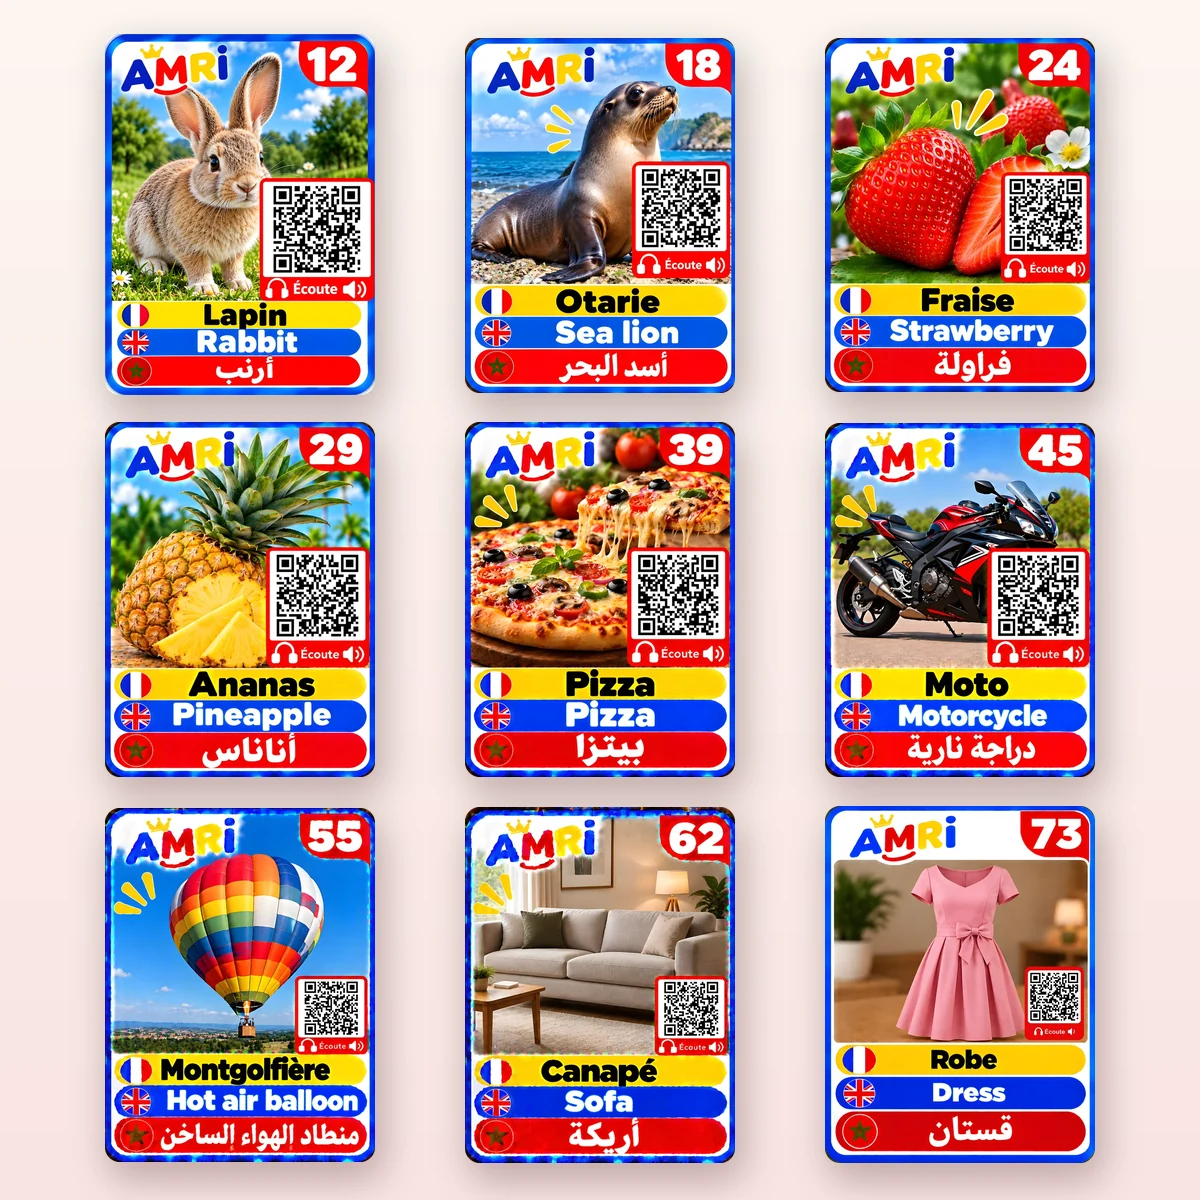
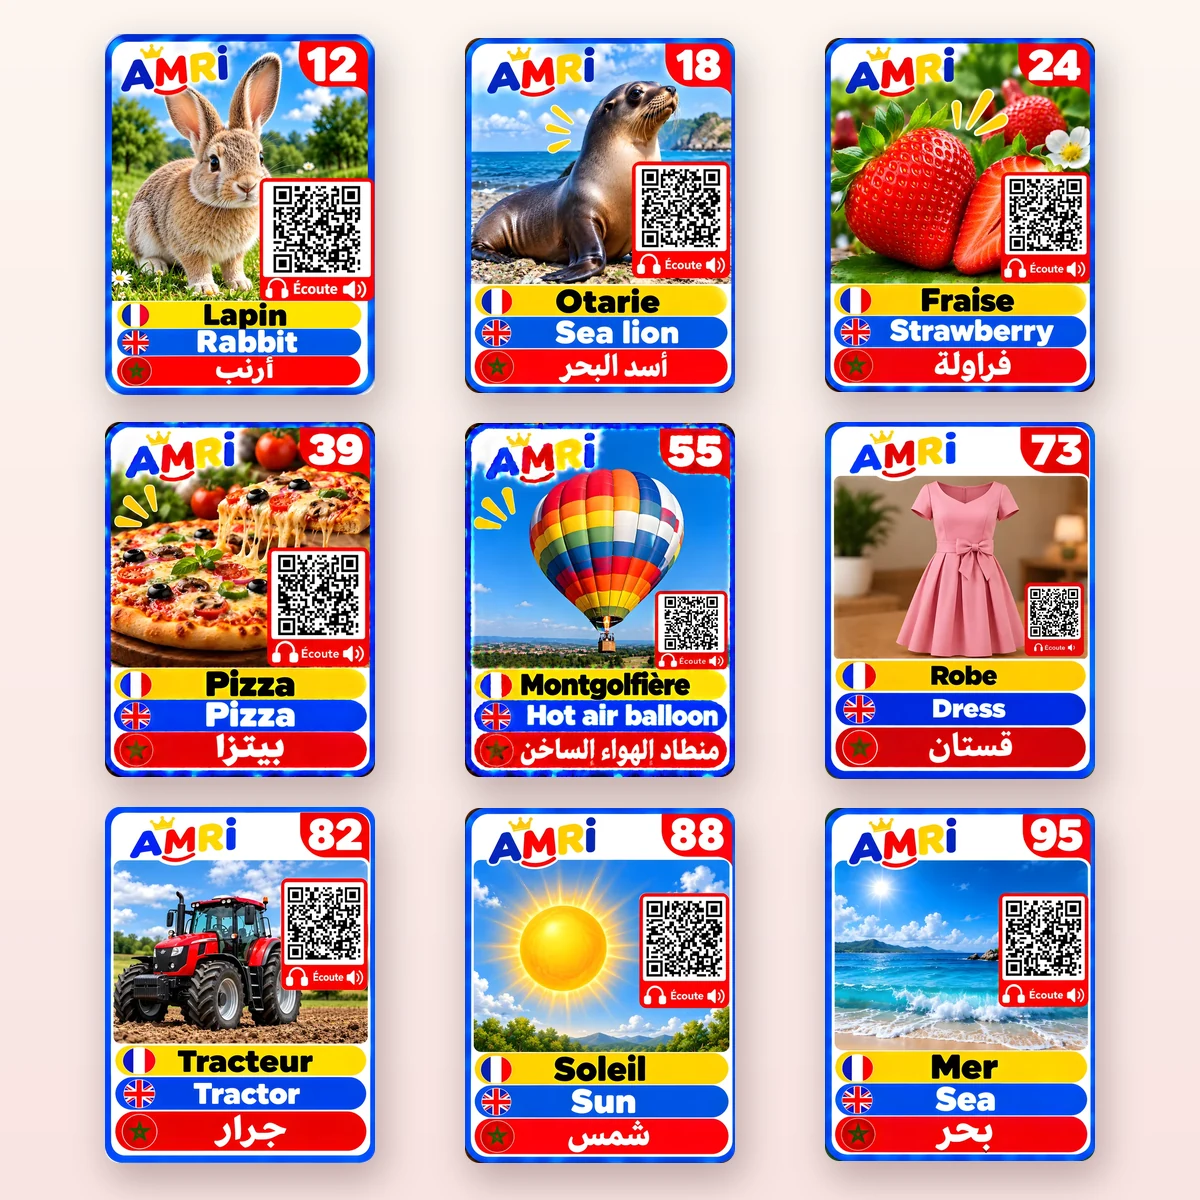
Add Amri photo cards 81-96 to the photo pack
Construction machines (81-85) and nature (86-96), same slug so their QR
codes open /ecoute/amri-photo-80/<n>. The pack is now 96 cards: product
copy, card count and the shop photos follow.

Card 84 is printed "Gr" (cut short); its word is seeded as Niveleuse.

diff --git a/src/lib/data/seed.ts b/src/lib/data/seed.ts
@@ -71,9 +71,9 @@ export const seedProducts: Product[] = [
     id: "prd_amri_photo_80",
     slug: "amri-photo-80",
     title: {
-      fr: "Amri · 80 cartes photo arabe – français – anglais",
-      ar: "Amri · 80 بطاقة بالصور عربي – فرنسي – إنجليزي",
-      en: "Amri · 80 photo cards Arabic – French – English",
+      fr: "Amri · 96 cartes photo arabe – français – anglais",
+      ar: "Amri · 96 بطاقة بالصور عربي – فرنسي – إنجليزي",
+      en: "Amri · 96 photo cards Arabic – French – English",
     },
     tagline: {
       fr: "De vraies photos pour apprendre ses premiers mots — et un QR code pour les écouter",
@@ -81,9 +81,9 @@ export const seedProducts: Product[] = [
       en: "Real photos to learn first words — and a QR code to hear them",
     },
     description: {
-      fr: "80 cartes recto verso illustrées de vraies photos : animaux, fruits et aliments, transports, la maison et les vêtements. Au recto : la photo et le mot en français, en anglais et en arabe. Au verso : des petites questions (la couleur, où on le trouve, la bonne phrase) pour jouer avec l'enfant.\n\nChaque carte porte un QR code « Écoute » : scannez-le avec un téléphone pour entendre le mot et sa phrase dans les trois langues.",
-      ar: "80 بطاقة على الوجهين بصور حقيقية: الحيوانات، الفواكه والأطعمة، وسائل النقل، المنزل والملابس. على الوجه الأمامي: الصورة والكلمة بالفرنسية والإنجليزية والعربية. وعلى الظهر: أسئلة صغيرة (اللون، أين نجده، الجملة الصحيحة) للّعب مع الطفل.\n\nعلى كل بطاقة رمز QR «استمع»: امسحه بالهاتف لسماع الكلمة وجملتها باللغات الثلاث.",
-      en: "80 double-sided cards with real photos: animals, fruit and food, transport, the home and clothes. Front: the photo and the word in French, English and Arabic. Back: little questions (its colour, where to find it, the right sentence) to play with your child.\n\nEvery card has a “Listen” QR code: scan it with a phone to hear the word and its sentence in all three languages.",
+      fr: "96 cartes recto verso illustrées de vraies photos : animaux, fruits et aliments, transports, engins de chantier, la maison, les vêtements et la nature. Au recto : la photo et le mot en français, en anglais et en arabe. Au verso : des petites questions (la couleur, où on le trouve, la bonne phrase) pour jouer avec l'enfant.\n\nChaque carte porte un QR code « Écoute » : scannez-le avec un téléphone pour entendre le mot et sa phrase dans les trois langues.",
+      ar: "96 بطاقة على الوجهين بصور حقيقية: الحيوانات، الفواكه والأطعمة، وسائل النقل، آليات البناء، المنزل، الملابس والطبيعة. على الوجه الأمامي: الصورة والكلمة بالفرنسية والإنجليزية والعربية. وعلى الظهر: أسئلة صغيرة (اللون، أين نجده، الجملة الصحيحة) للّعب مع الطفل.\n\nعلى كل بطاقة رمز QR «استمع»: امسحه بالهاتف لسماع الكلمة وجملتها باللغات الثلاث.",
+      en: "96 double-sided cards with real photos: animals, fruit and food, transport, construction machines, the home, clothes and nature. Front: the photo and the word in French, English and Arabic. Back: little questions (its colour, where to find it, the right sentence) to play with your child.\n\nEvery card has a “Listen” QR code: scan it with a phone to hear the word and its sentence in all three languages.",
     },
     type: "pack",
     collectionSlug: "cartes-arabe",
@@ -99,14 +99,14 @@ export const seedProducts: Product[] = [
     ],
     highlights: [
       {
-        fr: "80 cartes recto verso en vraies photos",
-        ar: "80 بطاقة على الوجهين بصور حقيقية",
-        en: "80 double-sided cards with real photos",
+        fr: "96 cartes recto verso en vraies photos",
+        ar: "96 بطاقة على الوجهين بصور حقيقية",
+        en: "96 double-sided cards with real photos",
       },
       {
-        fr: "Animaux, aliments, transports, maison, vêtements",
-        ar: "حيوانات، أطعمة، وسائل نقل، منزل، ملابس",
-        en: "Animals, food, transport, home, clothes",
+        fr: "Animaux, aliments, transports, maison, vêtements, nature",
+        ar: "حيوانات، أطعمة، وسائل نقل، منزل، ملابس، طبيعة",
+        en: "Animals, food, transport, home, clothes, nature",
       },
       {
         fr: "Chaque mot en arabe, français et anglais",
@@ -119,7 +119,7 @@ export const seedProducts: Product[] = [
         en: "Online audio version included (QR code)",
       },
     ],
-    cardCount: 80,
+    cardCount: 96,
     featured: true,
     isActive: true,
     audioEnabled: true,

diff --git a/src/lib/data/amri-photo-cards.ts b/src/lib/data/amri-photo-cards.ts
@@ -1,7 +1,7 @@
 import type { PackCard } from "./types";
 
 /**
- * Seed for the "Amri — 80 cartes photo" audio pack: the words exactly as
+ * Seed for the "Amri — 96 cartes photo" audio pack: the words exactly as
  * printed on the cards (photo cards, one theme per run of numbers). Same
  * role as amri-cards.ts — loaded by `npm run db:add-amri`, then edited in
  * /admin.
@@ -107,6 +107,24 @@ const RAW: [string, string, string, string, string, "هذا" | "هذه"][] = [
   ["قبعة", "Chapeau", "Hat", "un chapeau", "a hat", "هذه"],
   // 80
   ["حفارة", "Pelleteuse", "Excavator", "une pelleteuse", "an excavator", "هذه"],
+  // Engins 81–85 (84 is printed "Gr", cut short: Niveleuse)
+  ["رافعة", "Grue", "Crane", "une grue", "a crane", "هذه"],
+  ["جرار", "Tracteur", "Tractor", "un tracteur", "a tractor", "هذا"],
+  ["شاحنة خلط الخرسانة", "Bétonnière", "Concrete mixer truck", "une bétonnière", "a concrete mixer truck", "هذه"],
+  ["آلة التسوية", "Niveleuse", "Grader", "une niveleuse", "a grader", "هذه"],
+  ["شاحنة قلابة", "Camion-benne", "Dump truck", "un camion-benne", "a dump truck", "هذه"],
+  // Nature 86–96
+  ["شجرة", "Arbre", "Tree", "un arbre", "a tree", "هذه"],
+  ["زهرة", "Fleur", "Flower", "une fleur", "a flower", "هذه"],
+  ["شمس", "Soleil", "Sun", "un soleil", "a sun", "هذه"],
+  ["قمر", "Lune", "Moon", "une lune", "a moon", "هذا"],
+  ["نجمة", "Étoile", "Star", "une étoile", "a star", "هذه"],
+  ["سحابة", "Nuage", "Cloud", "un nuage", "a cloud", "هذه"],
+  ["مطر", "Pluie", "Rain", "de la pluie", "rain", "هذا"],
+  ["ثلج", "Neige", "Snow", "de la neige", "snow", "هذا"],
+  ["جبل", "Montagne", "Mountain", "une montagne", "a mountain", "هذا"],
+  ["بحر", "Mer", "Sea", "une mer", "a sea", "هذا"],
+  ["نهر", "Rivière", "River", "une rivière", "a river", "هذا"],
 ];
 
 export const amriPhotoCards: PackCard[] = RAW.map(([ar, fr, en, frIs, enIs, arThis], i) => ({

diff --git a/scripts/amri-photo/photos.py b/scripts/amri-photo/photos.py
@@ -86,7 +86,7 @@ def main(work):
     for n, dx, angle in [(12, -350, 16), (41, 350, -16), (56, -190, 8), (71, 190, -8)]:
         place(c, front(n), 380, (SIZE / 2 + dx, 620 + abs(dx) * 0.12), angle)
     place(c, front(21), 470, (SIZE / 2, 600))
-    pill(c, "80", (SIZE / 2, 125), RED, 74)
+    pill(c, "96", (SIZE / 2, 125), RED, 74)
     pill(c, "AR  |  FR  |  EN", (SIZE / 2, 1105), BLUE, 46)
     save(c, "cover")
 
@@ -99,7 +99,7 @@ def main(work):
 
     # A grid across the themes.
     c = background()
-    grid = [12, 18, 24, 29, 39, 45, 55, 62, 73]
+    grid = [12, 18, 24, 39, 55, 73, 82, 88, 95]
     for i, n in enumerate(grid):
         place(c, front(n), 270, (240 + (i % 3) * 360, 215 + (i // 3) * 385))
     save(c, "themes")
